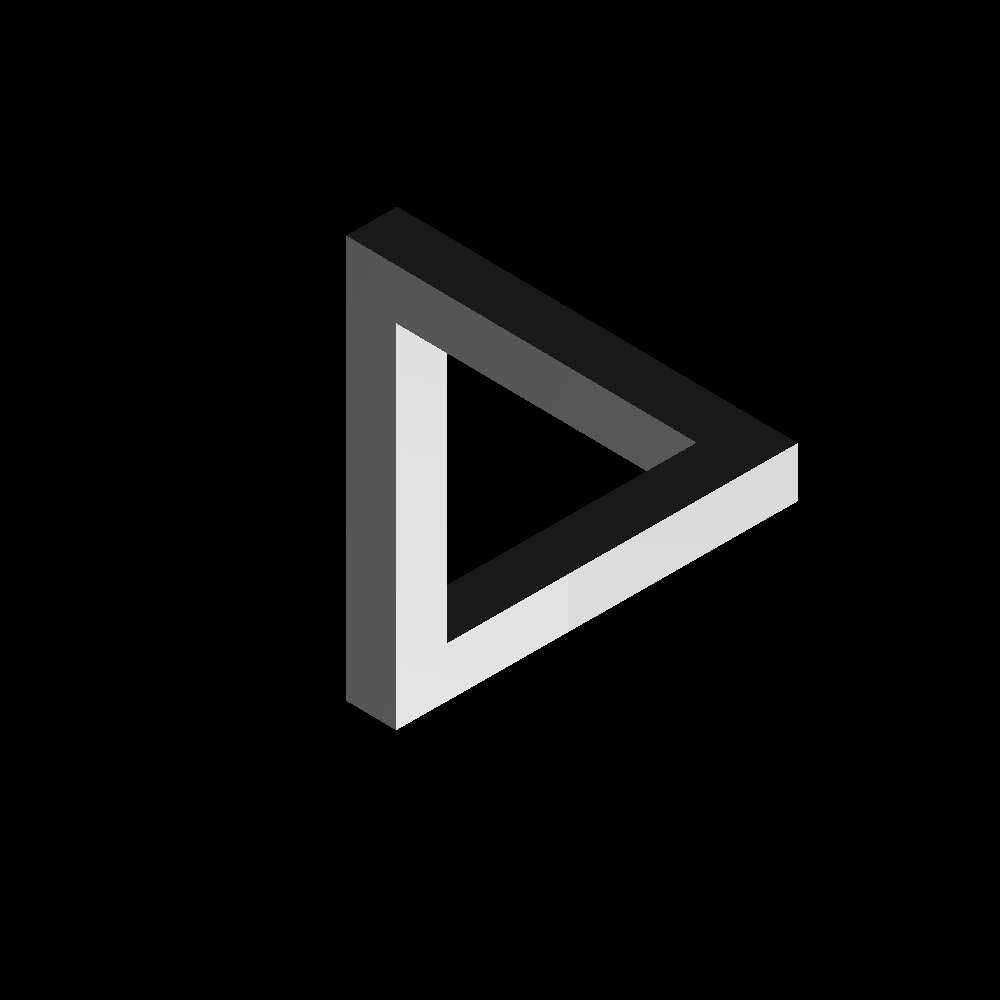
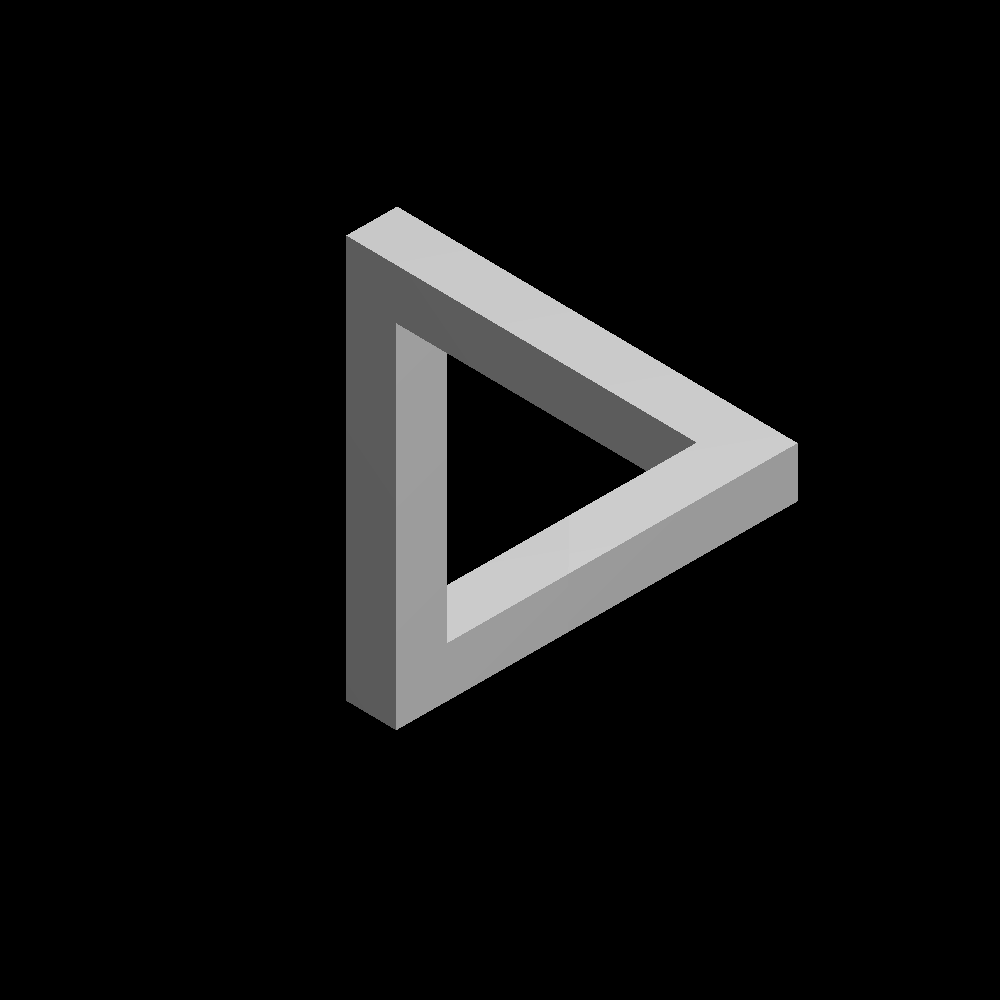
Penrose triangle (fix lighting issue)

Changed region(s): [[0.341, 0.186, 0.806, 0.744]]

diff --git a/ray-tracer-demos/PenroseTriangleScene.cs b/ray-tracer-demos/PenroseTriangleScene.cs
@@ -24,7 +24,7 @@ namespace ray_tracer_demos
 
         public override void InitWorld()
         {
-            Light(10, -20, -10);
+            Light(10, 15, -50);
             var length = 2;
             var diameter = 0.25;
             var r = diameter / 2;
